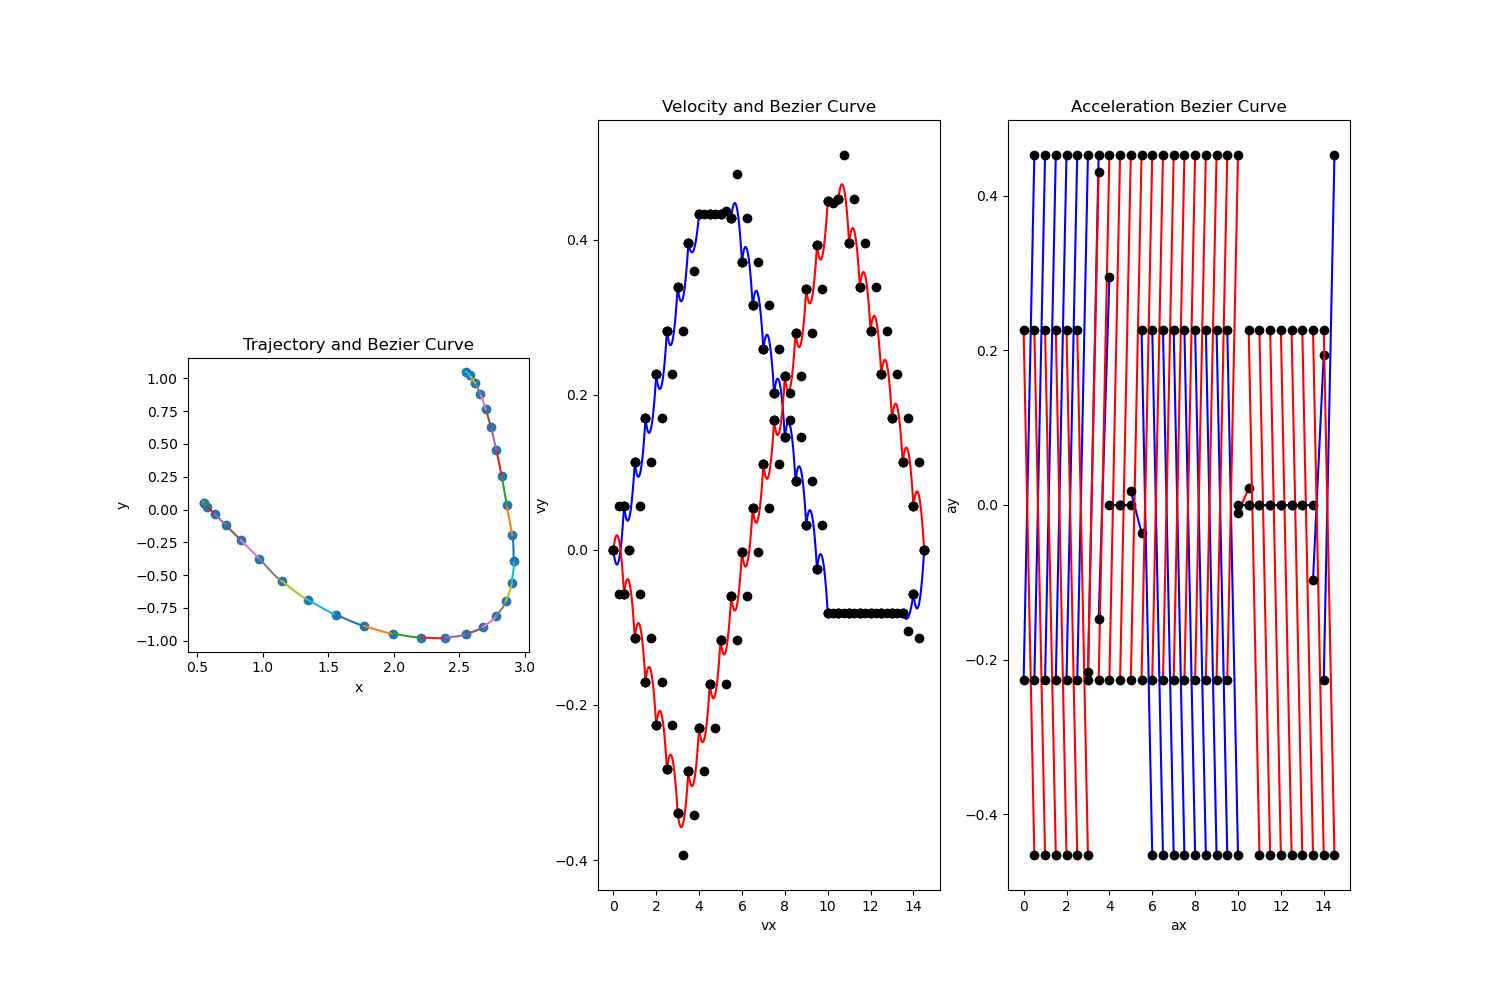
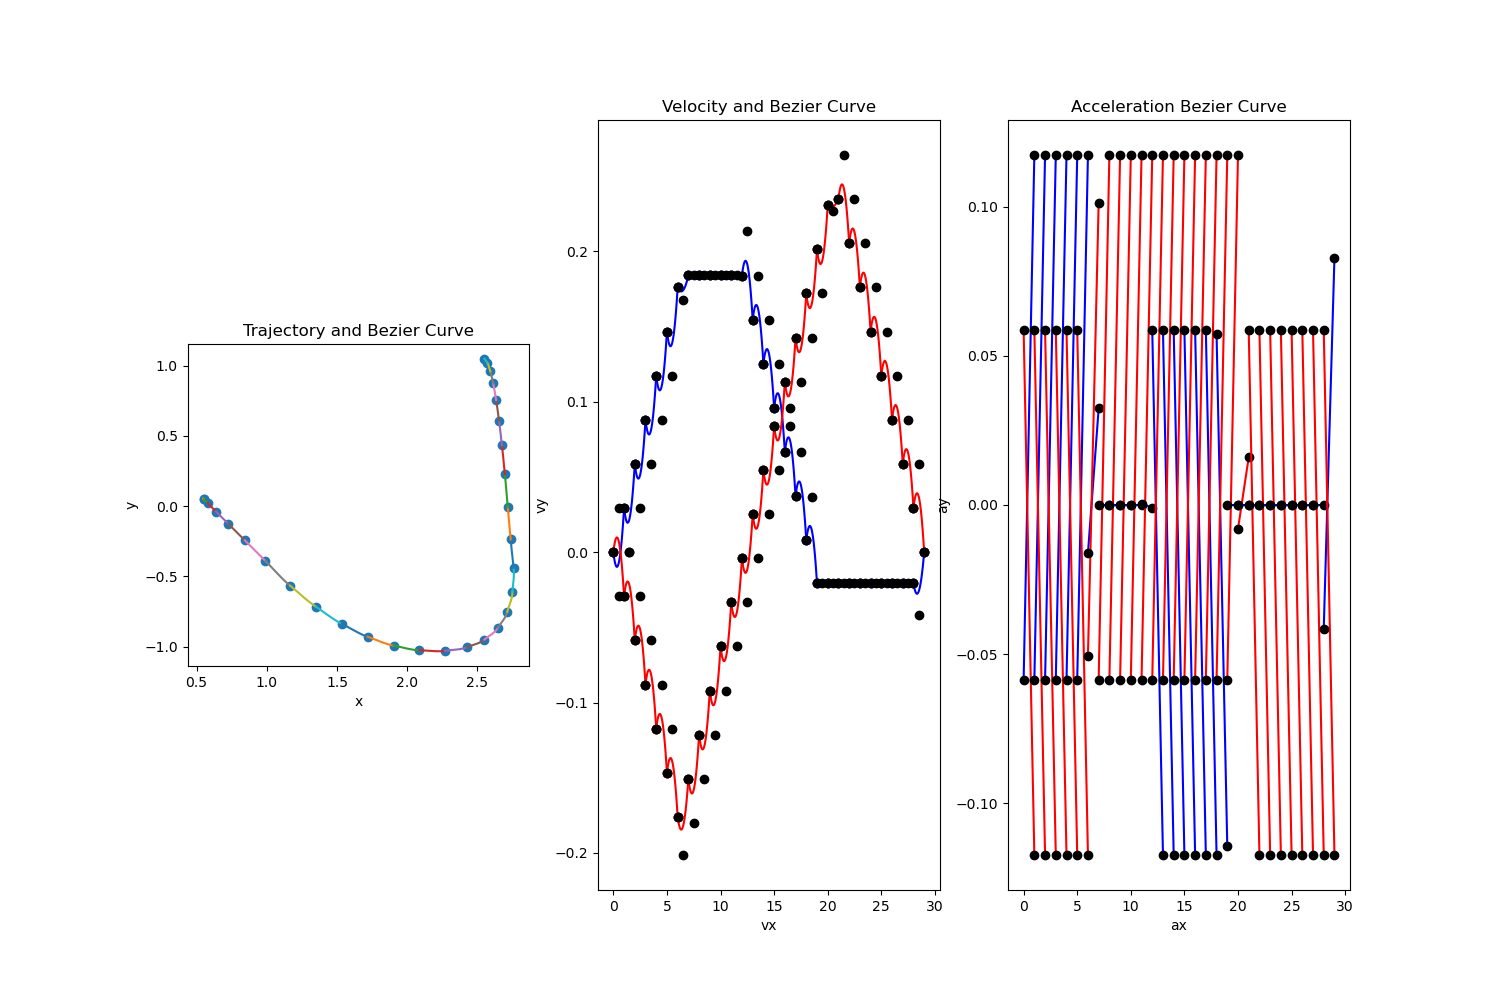
created realistic trajectory for platform. issues with rotation from planner to quat

diff --git a/stl_mapping/Planning/main.py b/stl_mapping/Planning/main.py
@@ -21,7 +21,7 @@ from Utilities.stl import Pred, Spec, quant_parse_operator, OptProbItems
 
 # hyperparameters
 N = 30     # number of time steps
-dt = 0.5    # time step size
+dt = 1.0    # time step size
 t0 = 0      # initial time
 tf = (N-1)*dt   # final time
 
@@ -132,7 +132,7 @@ else:
     t_sp = data['times']
 
 # plot the trajectory
-fig, axs = plt.subplots(1,3, figsize=(15, 5))
+fig, axs = plt.subplots(1,4, figsize=(15, 5))
 axs[0].plot(x_ff[:, 0], x_ff[:, 1], 'g-')
 axs[0].plot(x_ff[:, 0], x_ff[:, 1], 'go')
 X0.plot(axs[0], color='green', alpha=0.5)
@@ -148,17 +148,25 @@ axs[1].set_ylabel('Velocity')
 axs[1].legend()
 axs[1].grid()
 
-axs[2].plot(u_ff[:,0])
-axs[2].plot(u_ff[:,1])
-axs[2].plot(u_ff[:,2])
-axs[2].axhline(sp_robot.U.lower_bounds[0], color='g', linestyle='-.', label="U_lb")
-axs[2].axhline(sp_robot.U.upper_bounds[0], color='g', linestyle='-.')
-axs[2].axhline(alpha*sp_robot.U_effective.lower_bounds[0], color='b', linestyle='--', label="alpha*U_effective_lb")
-axs[2].axhline(alpha*sp_robot.U_effective.upper_bounds[0], color='b', linestyle='--')
-axs[2].axhline(sp_robot.U_effective.lower_bounds[0], color='r', linestyle=':', label="U_effective_lb")
-axs[2].axhline(sp_robot.U_effective.upper_bounds[0], color='r', linestyle=':')
+axs[2].plot(t_sp, x_ff[:, 3], label='pitch')
+axs[2].plot(t_sp, x_ff[:, 4], label='roll')
+axs[2].plot(t_sp, x_ff[:, 5], label='yaw')
 axs[2].set_xlabel('Time step')
-axs[2].set_ylabel('Control input')
+axs[2].set_ylabel('Euler angles (rad)')
+axs[2].legend()
+axs[2].grid()
+
+axs[3].plot(u_ff[:,0])
+axs[3].plot(u_ff[:,1])
+axs[3].plot(u_ff[:,2])
+axs[3].axhline(sp_robot.U.lower_bounds[0], color='g', linestyle='-.', label="U_lb")
+axs[3].axhline(sp_robot.U.upper_bounds[0], color='g', linestyle='-.')
+axs[3].axhline(alpha*sp_robot.U_effective.lower_bounds[0], color='b', linestyle='--', label="alpha*U_effective_lb")
+axs[3].axhline(alpha*sp_robot.U_effective.upper_bounds[0], color='b', linestyle='--')
+axs[3].axhline(sp_robot.U_effective.lower_bounds[0], color='r', linestyle=':', label="U_effective_lb")
+axs[3].axhline(sp_robot.U_effective.upper_bounds[0], color='r', linestyle=':')
+axs[3].set_xlabel('Time step')
+axs[3].set_ylabel('Control input')
 plt.savefig("stl_mapping/Planning/figures/sp_trajectory.png")
 
 
@@ -167,8 +175,10 @@ plt.savefig("stl_mapping/Planning/figures/sp_trajectory.png")
 x_ff_quat = np.zeros((x_ff.shape[0], x_ff.shape[1] + 1))
 for i in range(x_ff.shape[0]):
     x_ff_quat[i,:] = euler_x_to_quat_x_np(x_ff[i, :])
-print(x_ff_quat[:, 3:7])
-print(np.linalg.norm(x_ff_quat[:, 3:7],axis=1))  # should be close to 1
+print(f"quat: {x_ff_quat[:, 3:7]}")
+print(f"euler: {np.array([quat_to_euler_np(x[3:7]) for x in x_ff_quat])}")
+# print(np.linalg.norm(x_ff_quat[:, 3:7],axis=1))  # should be close to 1
+
 np.savez('stl_mapping/Planning/solutions/sp_solution_quat.npz', x_ff=x_ff_quat, u_ff=u_ff, dt=dt, alpha=alpha, times=t_sp)
 
 # feedback linearization controller for the underwater robot to behave like a free flyer

diff --git a/stl_mapping/Control/mpc_node.py b/stl_mapping/Control/mpc_node.py
@@ -265,14 +265,14 @@ class MPCNode(Node):
                            self.vehicle_angular_velocity[2]]).reshape(13, 1)
 
         if not self.started:
-            self.get_logger().info("Mission not started, using constant reference (t=0)")
+            # self.get_logger().info("Mission not started, using constant reference (t=0)")
             times = np.zeros(self.mpc.Nx + 1)  # No time since start, constant reference
         else:
-            self.get_logger().info("Mission started, calculating reference trajectory")
+            # self.get_logger().info("Mission started, calculating reference trajectory")
             t_mpc = t - self.t0
             times = np.linspace(t_mpc, t_mpc + self.mpc.Nx * self.mpc.dt, self.mpc.Nx + 1)
             # times = np.arange(t_mpc, t_mpc + self.mpc.Nx * self.mpc.dt, self.mpc.dt)
-            self.get_logger().info(f"t_mpc: {t_mpc}, times: {times}")
+            # self.get_logger().info(f"t_mpc: {t_mpc}, times: {times}")
         
         x_ref = np.zeros((13, self.mpc.Nx + 1))  # Initialize reference trajectory
         for idx, ti in enumerate(times):
@@ -285,16 +285,15 @@ class MPCNode(Node):
             x_ref[3:7, :],  # Quaternion
             x_ref[10:13, :]  # Angular velocity
         ))
-        self.get_logger().info(f"x_ref: {x_ref}")
-        self.get_logger().info(f"x0: {x0.flatten()}")
+        # self.get_logger().info(f"x_ref: {x_ref[:, 0].flatten()}")
+        # self.get_logger().info(f"x0: {x0.flatten()}")
 
         # Get control input
         self.control, x_pred = self.mpc.get_input(x0, x_ref)
-        print(f"Control: {self.control.flatten()}")
+        # print(f"Control: {self.control.flatten()}")
 
         # Publish the reference and predicted path for rviz
         setpoint_path_msg = Path()
-        self.get_logger().info(f'shape: {x_ref.shape}')
         for idx in range(x_ref.shape[1]):
             setpoint = x_ref[:, idx]
             setpoint_pose_msg = self.vector2PoseMsg('map', setpoint[0:3], setpoint[6:10])

diff --git a/stl_mapping/Utilities/rotations.py b/stl_mapping/Utilities/rotations.py
@@ -29,7 +29,7 @@ def euler_to_quat_cs(pry):
     Convert Euler angles (roll, pitch, yaw) to quaternion (qw, qx, qy, qz).
     Angles are in radians.
     """
-    roll, pitch, yaw = pry[0], pry[1], pry[2]
+    pitch, roll, yaw = pry[0], pry[1], pry[2]
     cy = cs.cos(yaw * 0.5)
     sy = cs.sin(yaw * 0.5)
     cr = cs.cos(roll * 0.5)
@@ -49,7 +49,7 @@ def euler_to_quat_np(pry):
     Convert Euler angles (roll, pitch, yaw) to quaternion (qw, qx, qy, qz).
     Angles are in radians.
     """
-    roll, pitch, yaw = pry[0], pry[1], pry[2]
+    pitch, roll, yaw = pry[0], pry[1], pry[2]
     cy = np.cos(yaw * 0.5)
     sy = np.sin(yaw * 0.5)
     cr = np.cos(roll * 0.5)
@@ -69,7 +69,7 @@ def quat_to_euler_cs(q):
     Convert quaternion (qw, qx, qy, qz) to Euler angles (roll, pitch, yaw).
     Angles are in radians.
     """
-    qw, qx, qy, qz = q[3], q[0], q[1], q[2]
+    qw, qx, qy, qz = q[0], q[1], q[2], q[3]
 
     roll = cs.atan2(2 * (qw * qx + qy * qz), 1 - 2 * (qx ** 2 + qy ** 2))
     pitch = cs.asin(2 * (qw * qy - qz * qx))
@@ -82,7 +82,7 @@ def quat_to_euler_np(q):
     Convert quaternion (qw, qx, qy, qz) to Euler angles (roll, pitch, yaw).
     Angles are in radians.
     """
-    qw, qx, qy, qz = q[3], q[0], q[1], q[2]
+    qw, qx, qy, qz = q[0], q[1], q[2], q[3]
 
     roll = np.arctan2(2 * (qw * qx + qy * qz), 1 - 2 * (qx ** 2 + qy ** 2))
     pitch = np.arcsin(2 * (qw * qy - qz * qx))

diff --git a/stl_mapping/Utilities/Robots.py b/stl_mapping/Utilities/Robots.py
@@ -113,8 +113,16 @@ class LinearFreeFlyer6DoF(Robot):
         self.fx = lambda x: self.A@x
         self.gx = lambda x: self.B
 
-        self.U = HyperRectangle(np.array([-3, -3, -3, -0.5, -0.5, -0.5]),
-                                np.array([3, 3, 3, 0.5, 0.5, 0.5]))
+        # Define the control input bounds
+        max_thrust = 2.125
+        max_torque = 0.255
+        scale_thrust = 2/3
+        scale_torque = 1/3
+        u_max = np.concatenate([
+            np.array([max_thrust]*3) * scale_thrust,
+            np.array([max_torque]*3) * scale_torque
+        ])
+        self.U = HyperRectangle(-u_max, u_max)
         self.D = HyperRectangle(np.array([-1, -1, -1]),np.array([1, 1, 1]))
 
         # self.U_effective = minkowski_difference(self.U, self.K@self.D)

diff --git a/stl_mapping/Utilities/get_reference_trajectory.py b/stl_mapping/Utilities/get_reference_trajectory.py
@@ -7,6 +7,7 @@ parent_dir = os.path.abspath(os.path.join(os.path.dirname(__file__), '..'))
 sys.path.insert(0, parent_dir)
 
 from Utilities.beziers import value_bezier
+from Utilities.rotations import quat_to_euler_cs
 
 class ReferenceTrajectory:
     def __init__(self, r, dr, q, dt):
@@ -32,7 +33,7 @@ def get_reference_trajectory(t:float, trajectory:ReferenceTrajectory):
     dq_val = slerp([s, min(1,s+ds)]).as_euler('xyz')
     dq_val = (dq_val[1] - dq_val[0]) / ds
 
-    # print(f"q_val: {q_val}")
+    print(f"q_val: {quat_to_euler_cs(q_val)}")
     # print(f"dq_val: {dq_val}")
     return np.concatenate((p, q_val, v, dq_val))
 
